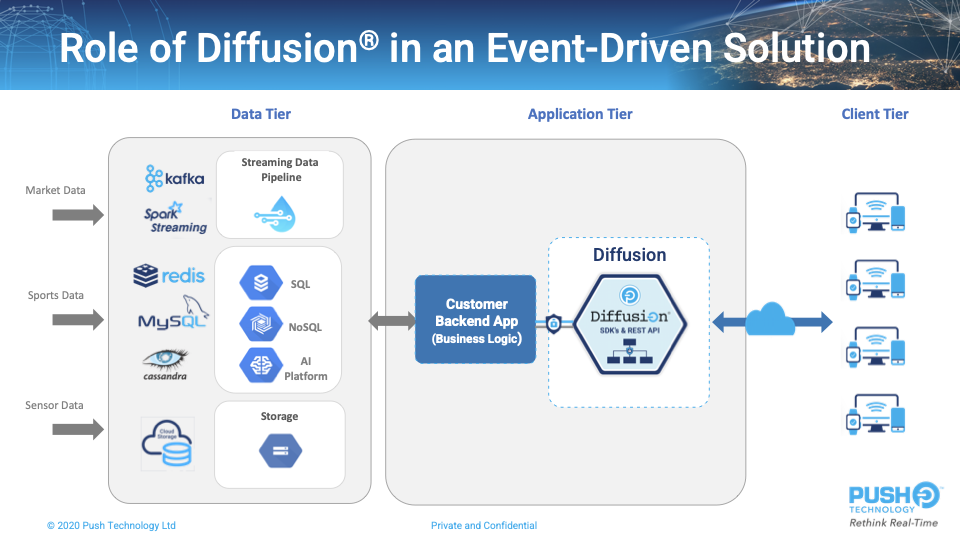
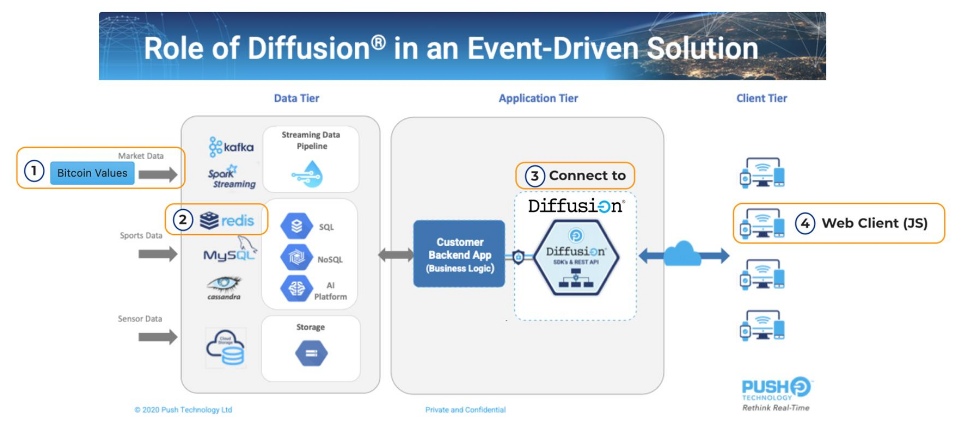
Changes to redis app after Mati review

diff --git a/redis-integration/redis-app/index.html b/redis-integration/redis-app/index.html
@@ -11,46 +11,53 @@
   </head>
   <body>    
     <div class="vertical-center">        
-        <div class="container-fluid" style="background-color: blue;">            
+        <div class="container-fluid">            
             <a class="d-block text-center" href="https://www.pushtechnology.com">
                 <img src="./images/diffusion-logo.png" height="80">
             </a>
             <div class="row">
               <div class="col">
-                <h5 class="text-white">General Schema</h5>
+                <h5 class="tier-title">General Schema</h5>
                 <img src="images/schema.png" style="background-size: cover;" class="rounded mx-auto d-block">
               </div>
               
             </div>
             <hr>
             <div class="row p-2">
-                <div class="col-md-6 text-white p-1" style="background-color: blue; background-image: url(./images/cloud-overview-header.jpg); background-size:cover; background-repeat: no-repeat; background-position: center;">                            
-                  <div style="height: 180px; padding: 10px;">
-                    <label for="name" style="color:White;">1. This is the Market data: Data injected into Redis (Data Tier)</label><br>
-                    <a href="#" class="btn btn-diffusion text-white btn-sm" id="startPolling">Get Bitcoin Values</a>
-                    <pre class="json text" style="background-color: white; max-height: 500px" id="responseValue"></pre>
+                <div class="col-md-6 border-end p-2">
+                  <div style="height: 250px; padding: 10px;">
+                    <h5 class="tier-title smaller">Market Data</h5>
+                    <label for="name" class="mb-2"><span class="rounded-number">1</span> This is the Market data: Data injected into Redis (Data Tier)</label><br>
+                    <a href="#" class="btn btn-diffusion btn-sm text-white" id="startPolling">Get Bitcoin Values</a>
+                    <pre class="json text mt-2" style="background-color: white; height: 150px;" id="responseValue"></pre>
                   </div>
                   <hr>
-                  <p>2. Redis (Data Tier): Here's the Data Tier Client, showing the data received in Redis from the Bitcoin API (Market data)</p>
-                  <div id="chartDiv" style="height: 300px;"></div>
+                  <h5 class="tier-title smaller">Data Tier</h5>
+                  <p><span class="rounded-number">2</span> Redis (Data Tier): Here's the Data Tier Client, showing the data received in Redis from the Bitcoin API (Market data)</p>
+                  <div id="chartDiv" class="border" style="height: 300px;"></div>
                 </div>
-                <div class="col-md-6 text-white p-1" style="background-color: blue; background-image: url(./images/cloud-overview-header.jpg); background-size:cover; background-repeat: no-repeat; background-position: center;">
-                  <div style="height: 180px; padding: 10px;">
-                    <label for="name" style="color:White;">3. Diffusion Service (Application Tier): The Data Tier, publishes received data into Diffusion.</label>
-                    <div class="input-group">
-                        <span class="input-group-text">
-                        <i class="fa fa-cloud"></i>
-                        </span>
-                        <input class="form-control" id="host" name="host" value="redis-tutorial.us.diffusion.cloud" type="text">
-                    </div>                        
-                    <input class="form-control" id="user" name="user" value="redis-tutorial" type="text">
-                    <input class="form-control" id="password" name="password" value="password" type="text">                    
-                    <a href="https://management.ad.diffusion.cloud/" style="color:White;">Don't have one? Click here to create your service!</a>
-                    <a href="#" class="btn btn-diffusion text-white btn-block mt-1" id="connectToDiffusion" type="button" style="background-color:#3d3d3d;">Connect to Diffusion</a>
+                <div class="col-md-6 p-2">
+                  <div style="height: 250px; padding: 10px;">
+                    <h5 class="tier-title smaller">Application Tier</h5>
+                    <label for="name" class="mb-2"><span class="rounded-number">3</span> Diffusion Service (Application Tier): The Data Tier, publishes received data into Diffusion.</label>                    
+                    <div class="mb-2">
+                      <div class="input-group">
+                          <span class="input-group-text">
+                          <i class="fa fa-cloud"></i>
+                          </span>
+                          <input class="form-control" id="host" name="host" value="redis-tutorial.us.diffusion.cloud" type="text">
+                      </div>                        
+                    
+                      <input class="form-control" id="user" name="user" value="redis-tutorial" type="text">
+                      <input class="form-control" id="password" name="password" value="password" type="text">                    
+                    </div>
+                    <a href="https://management.ad.diffusion.cloud/">Don't have one? Click here to create your service!</a>
+                    <a href="#" class="btn btn-diffusion btn-block mt-1 text-white" id="connectToDiffusion" type="button">Connect to Diffusion</a>
                   </div>
                   <hr>
-                  <p>4. Client Tier: Here where we display data obtained from the subscribed topic in Diffusion:</p>
-                  <div id="diffusionChartDiv" style="height: 300px;"></div>
+                  <h5 class="tier-title smaller">Client Tier</h5>
+                  <p><span class="rounded-number">4</span> Client Tier: Here where we display data obtained from the subscribed topic in Diffusion:</p>
+                  <div id="diffusionChartDiv" class="border" style="height: 300px;"></div>
                 </div>
             </div>
         </div>

diff --git a/redis-integration/redis-app/css/style.css b/redis-integration/redis-app/css/style.css
@@ -50,3 +50,20 @@ ul.messages.list-group {
   background: #299de5 linear-gradient(180deg,#48abe8,#299de5) repeat-x;
   border-color: #1e98e3;
 }
+
+.rounded-number {
+  display: inline-block;
+  border: 1px solid #2F99F5;
+  border-radius: 50%;
+  width: 25px;
+  height: 25px;
+  text-align: center;  
+}
+
+.tier-title {
+  color: #2E6D88;
+}
+
+.tier-title.smaller {
+  font-size: 15px;
+}
